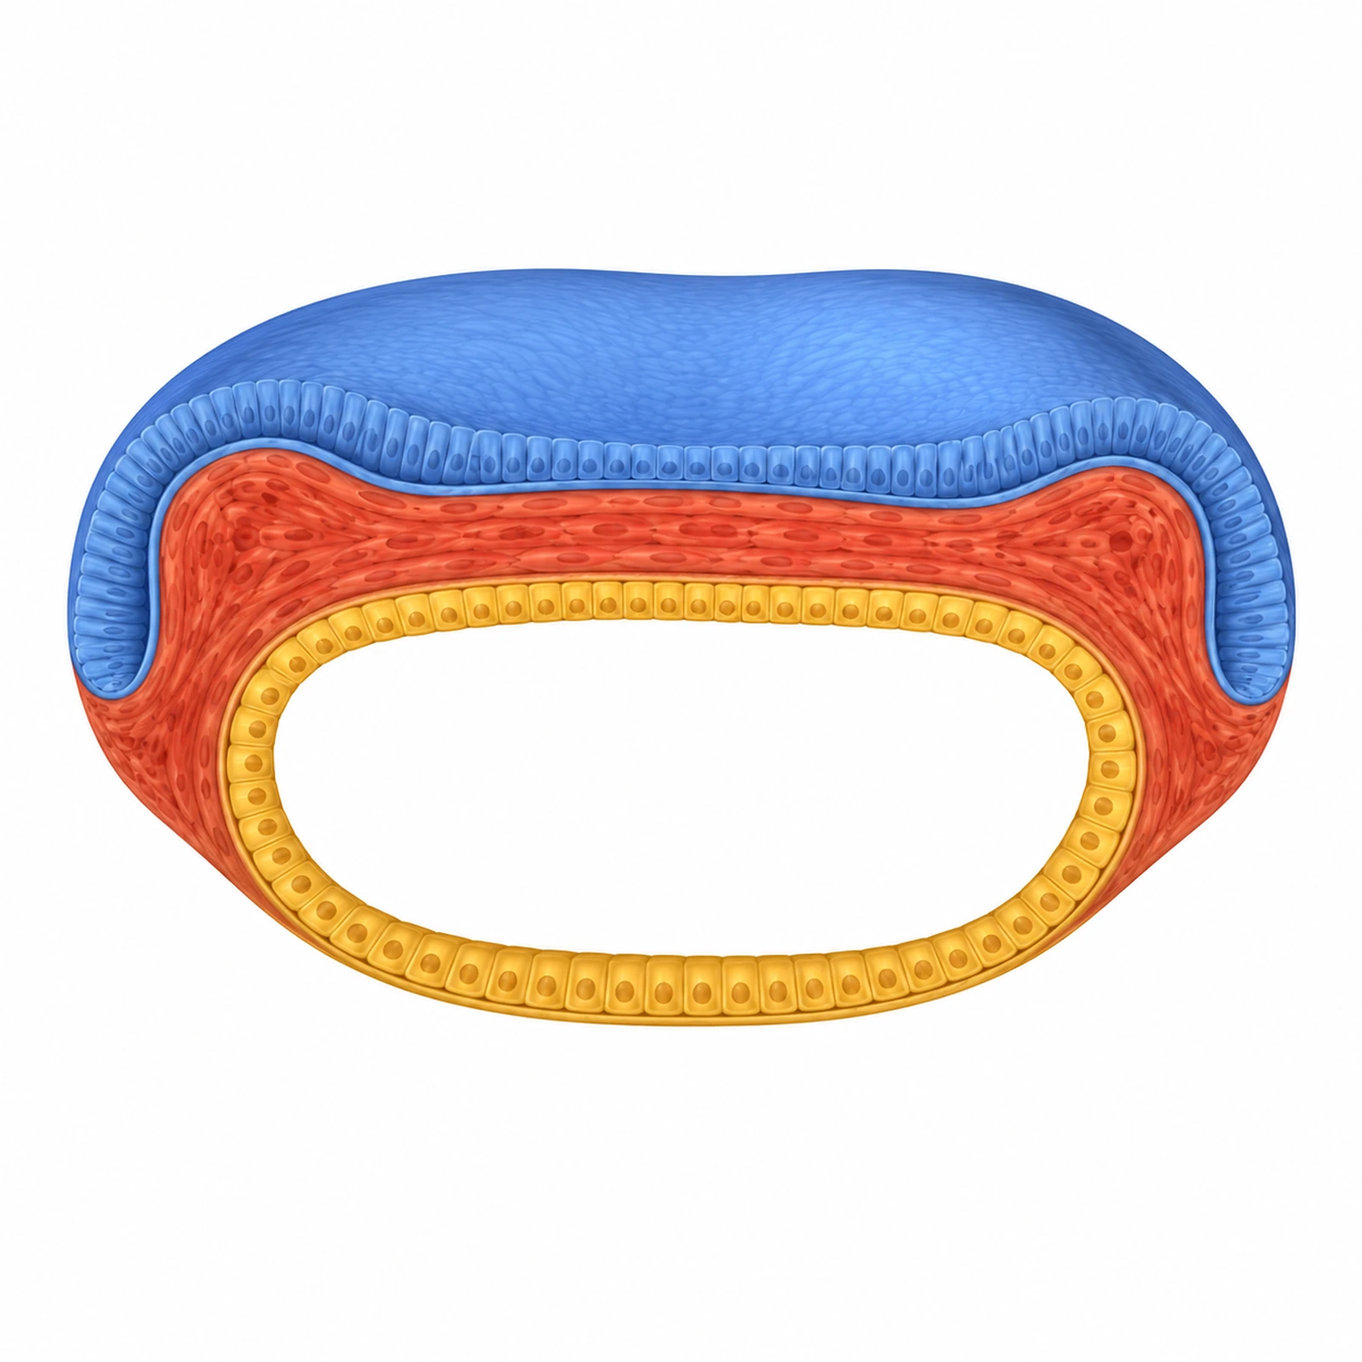
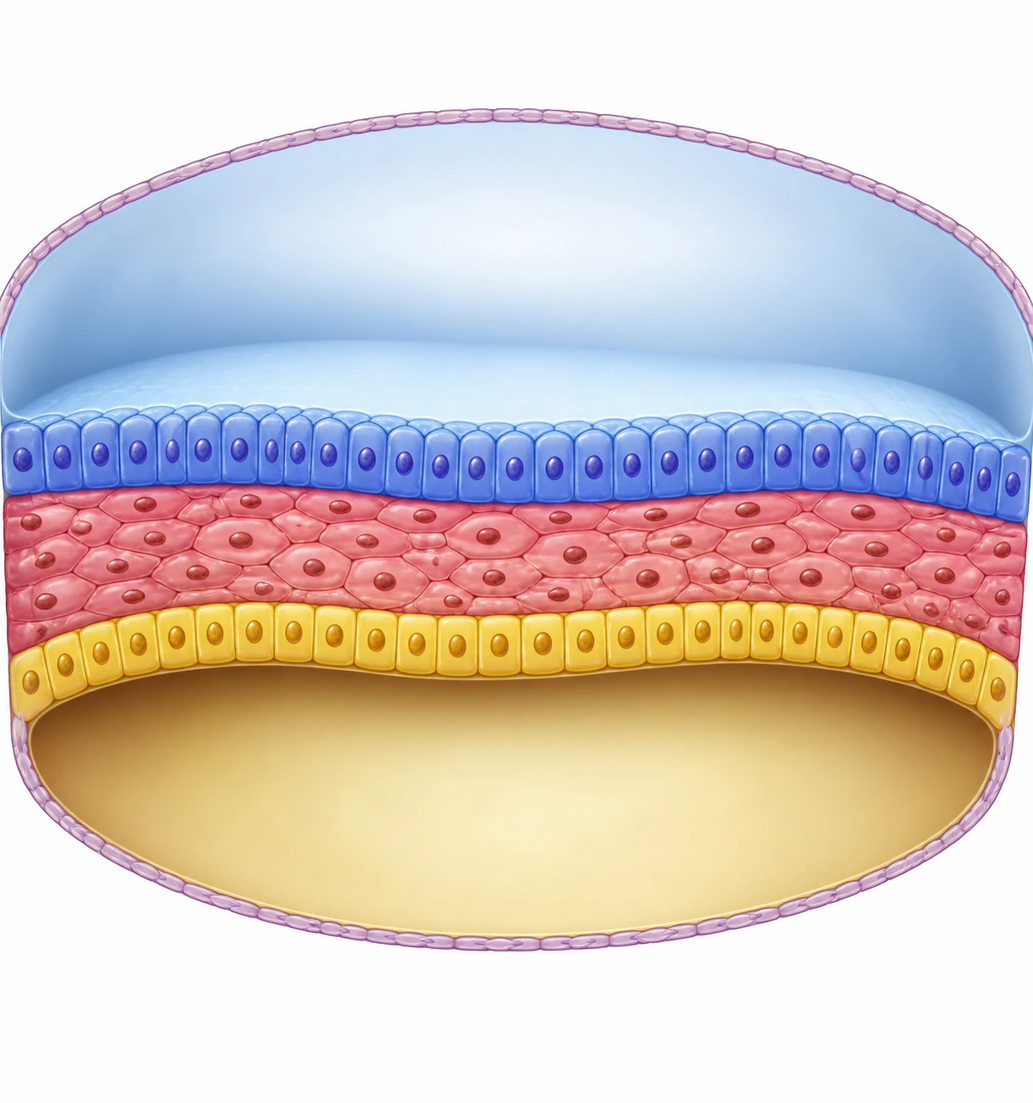
feat: batch 5 -- G04/G05/C09 image updates, Q117 moved G06 to G05
Consolidates 3 existing image_mcq masters onto user-provided custom
AI-generated images (no new masters, no type conversion):

- G05 (anatomical position): replaced the self-made SVG with a
  photorealistic full-body image. Q051 (definition question, no
  overlay) keeps its pose/answer unchanged. Q117 (medial/lateral),
  previously sharing G06 with Q063, now sits on this image with a
  newly measured marker on the forearm's medial edge -- verified
  unique by pixel sampling.
- G04 (germ layers): replaced with a cylindrical cutaway trilaminar
  disc (ectoderm/mesoderm/endoderm color-separated). Q010/Q011
  markers re-measured on the new image.
- C09 (systemic/pulmonary circulation): replaced with the user's
  final corrected diagram (4 pulmonary veins, 1 SVC, 1 IVC -- verified
  by pixel counting). Q147 (systemic: aorta/capillary bed/vena cava
  return) and Q148 (pulmonary: artery branch/capillary bed/vein)
  each get 3 newly measured path markers tracing one clear route.
- G06 keeps only Q063 (anterior/posterior); its asset is unchanged
  and still referenced, so nothing was deleted.

question/choices/answer/explanation unchanged for all 6 touched QIDs
(Q010, Q011, Q051, Q117, Q147, Q148); only image.asset/alt/overlay(s)/
marker_target/prompt_id touched. master_count stays 26 (no new/deleted
master); unique referenced assets stay 26. image_mcq count unchanged
(77, no type conversion). manifest status flipped accepted-existing ->
[…]

diff --git a/sw.js b/sw.js
@@ -8,7 +8,7 @@
 //   （＝どれか1枚の取得に失敗してもinstall全体を失敗させない。取得できなかった分は
 //   従来どおりimageCacheFirst()が実行時に個別取得を試み、それでも失敗すれば画面側の
 //   「画像準備中」表示に任せる）。
-var CACHE = 'anatomy-quiz-v2-2026-08-illustrations-v1-batch4-q231-final';
+var CACHE = 'anatomy-quiz-v2-2026-08-illustrations-v1-batch5-g1-g5-c5';
 var CORE_ASSETS = [
   './',
   './index.html',

diff --git a/docs/common_illustration_library_v1.md b/docs/common_illustration_library_v1.md
@@ -11,6 +11,8 @@
 > **更新（common illustration library batch 3）**：R03「左右肺葉・肺裂」とR04「気管支分岐」をカスタムAI生成画像による新R03「肺外観・気管支樹統合図」へ統合し、旧R05〜R07をR04〜R06へ改番した。25 master → 24 masterとなった。詳細は`docs/v2.0.1_asset_source_log.md`「common illustration library batch 3」節を参照。
 >
 > **更新（common illustration library batch 4）**：R01「喉頭外観と上下気道」からQ032・Q304・Q305・Q306を分離し、新設R08「上気道矢状断」・R09「喉頭外観・前面」へ移した（R01はQ256のみ残し、人間レビュー未完了のR2-B保留分として維持）。R02「喉頭鏡視野」はカスタムAI生成画像へ更新し、真声帯・前庭ヒダ・声門裂を分離識別できるようにした（Q307のmarkerを声帯ヒダ組織上から声門裂そのものへ再測定）。本batchはbatch 3と別worktreeで並行に進んでいたため、統合時に24 master → 26 masterとなった。詳細は`docs/v2.0.1_asset_source_log.md`「common illustration library batch 4」節を参照。
+>
+> **更新（common illustration library batch 5）**：G04「三胚葉」・G05「解剖学的正位」・C09「体循環・肺循環」をカスタムAI生成画像へ更新した（いずれも`status:"revised"`）。あわせてG06「解剖学的方向用語」のQ117（内側・外側）をG05の新画像上（前腕内側縁）へ統合し、G06はQ063（前方・後方）のみを残した。master数は26のまま変わらない（新設・削除なし、既存masterの画像更新とQ117の再配置のみ）。詳細は`docs/v2.0.1_asset_source_log.md`「common illustration library batch 5」節を参照。
 
 画像は問題単位で複製しない。複数問題が同じ `image.asset` を参照し、markerの座標とラベルは各問題の `overlay` または `overlays` に残す。前面・後面・断面・組織像、または表示倍率が違う図は別masterとした。
 
@@ -31,8 +33,8 @@
 | G02 | 上皮組織断面 | Q004 | 1 | `g02_epithelium.webp` |
 | G03 | 人体の主要断面 | Q008, Q053, Q054 | 3 | `g03_body_planes.webp` |
 | G04 | 三胚葉 | Q010, Q011 | 2 | `g04_germ_layers.webp` |
-| G05 | 解剖学的正位 | Q051 | 1 | `g05_anatomical_position.webp` |
-| G06 | 解剖学的方向用語 | Q063, Q117 | 2 | `g06_direction_terms.webp` |
+| G05 | 解剖学的正位 | Q051, Q117 | 2 | `g05_anatomical_position.webp` |
+| G06 | 解剖学的方向用語 | Q063 | 1 | `g06_direction_terms.webp` |
 | C01 | 心臓外観前面 | Q016, Q138, Q301, Q073, Q074 | 5 | `c01_heart_exterior_anterior.webp` |
 | C02 | 心臓外観後面 | Q019, Q125, Q302, Q140 | 4 | `c02_heart_exterior_posterior.webp` |
 | C03 | 心臓4腔断面 | Q017, Q064, Q129, Q230 | 4 | `c03_heart_chambers.webp` |
@@ -54,7 +56,7 @@
 | U03 | 泌尿器系全体 | Q050, Q095, Q192 | 3 | `u03_urinary_system.webp` |
 | U04 | 腎臓冠状断（腎門含む） | Q045, Q091, Q092, Q093, Q100, Q180, Q309 | 7 | `u04_kidney_cross_section.webp` |
 
-77問すべてがmasterへ割り当てられている。うち71問は複数Qで使うmasterに属し、Q002、Q004、Q051、Q231は教育上の縮尺・識別性を守るため単独masterとした。Q256（R01）とQ032（R08）も現時点では単独masterだが、これはR01がR2-B新設（人間レビュー未完了のため保留）を待つ暫定状態であることによるもので、恒久的な設計判断ではない。
+77問すべてがmasterへ割り当てられている。うち71問は複数Qで使うmasterに属し、Q002、Q004、Q231は教育上の縮尺・識別性を守るため単独masterとした。Q063（G06）もbatch 5でQ117がG05へ移った結果、単独masterとなった。Q256（R01）とQ032（R08）も現時点では単独masterだが、これはR01がR2-B新設（人間レビュー未完了のため保留）を待つ暫定状態であることによるもので、恒久的な設計判断ではない。
 
 ## 統合しなかった主な図
 
@@ -67,10 +69,11 @@
 - U02、U03、U04はネフロン模式図、泌尿器系全体、腎断面。観察範囲が一致しない。腎門（旧U01）だけはU04の腎臓冠状断上で無理なく一意に指せたため、batch 2でU04へ統合した。
 - R08（上気道矢状断）とR09（喉頭外観・前面）：旧R01は後面寄りの頸部局所図1枚に、鼻腔〜気管の全体像（Q032）と喉頭単体の前面観（Q304〜Q306）を無理に同居させていた。矢状断と前面外観は観察方向が異なるため、batch 4で別masterに分離した。Q256（喉頭蓋）は、まだ人間レビューが済んでいない別視点の候補（R2-B）に統合される可能性があるため、今回は旧R01画像に残し統合対象から外した。
 - R02は声帯を扱う点でR08・R09と同じ喉頭領域だが、喉頭鏡視野（上方から見た内視鏡的視野）は前面外観・矢状断のどちらとも観察方向が異なり、実在する内視鏡所見の再現という性質上も独立して扱う。
+- G05とG06：batch 5でG05の画像を全身写真的イラストへ更新した際、Q117（内側・外側）の marker を前腕内側縁として一意に配置できることを確認できたため、G06からG05へ統合した。Q063（前方・後方）はG05の画像（正面観のみ）では前後方向を示せないため、G06（正面図＋側面図）に残した。G04（三胚葉）は発生学の胚葉断面図でG05・G06とは主題が異なるため統合していない。
 
 ## 生成・出典管理
 
-v1の当初26 masterは品質評価済みの既存assetをバイト同一で採用した。batch 1でC01・C02・C03・C05をカスタムAI生成画像へ更新し（`status:"revised"`）、C08を統合廃止、C10を新設した。batch 2でU01（腎門）をU04へ統合・削除し、U02・U03・U04をカスタムAI生成画像へ更新した（`status:"revised"`）。26 master → 25 masterとなった。batch 3では呼吸器の肺葉図（旧R03）と気管支分岐図（旧R04）を新R03（肺外観・気管支樹統合図）へ統合し、25 master → 24 masterとなった。batch 4でR01からQ032・Q304〜Q306を分離し、カスタムAI生成画像によるR08・R09を新設、R02もカスタムAI生成画像へ更新した（`status:"revised"`）。batch 3・batch 4は別worktreeで並行に進み、後日rebaseで統合したため24 master → 26 masterとなった。生成待ちは0件。各masterの観察方向、縮尺、主要構造、marker target、代替画像を作る場合のprompt、出典・ライセンス欄はmanifestに収録した。
+v1の当初26 masterは品質評価済みの既存assetをバイト同一で採用した。batch 1でC01・C02・C03・C05をカスタムAI生成画像へ更新し（`status:"revised"`）、C08を統合廃止、C10を新設した。batch 2でU01（腎門）をU04へ統合・削除し、U02・U03・U04をカスタムAI生成画像へ更新した（`status:"revised"`）。26 master → 25 masterとなった。batch 3では呼吸器の肺葉図（旧R03）と気管支分岐図（旧R04）を新R03（肺外観・気管支樹統合図）へ統合し、25 master → 24 masterとなった。batch 4でR01からQ032・Q304〜Q306を分離し、カスタムAI生成画像によるR08・R09を新設、R02もカスタムAI生成画像へ更新した（`status:"revised"`）。batch 3・batch 4は別worktreeで並行に進み、後日rebaseで統合したため24 master → 26 masterとなった。batch 5でG04・G05・C09をカスタムAI生成画像へ更新し（`status:"revised"`）、G06のQ117をG05へ再配置した。master新設・削除は無く26 masterのまま。生成待ちは0件。各masterの観察方向、縮尺、主要構造、marker target、代替画像を作る場合のprompt、出典・ライセンス欄はmanifestに収録した。
 
 出典URL、加工方法、採否理由は `docs/v2.0.1_asset_source_log.md` と `docs/v2.0.1_image_quality_classification.md` を参照する。出典欄が「詳細は出典ログ参照」のassetは、公開前にクレジット表示との一致を人が再確認する。
 

diff --git a/docs/common_illustration_library_v1_implementation_log.md b/docs/common_illustration_library_v1_implementation_log.md
@@ -283,3 +283,77 @@ commit hashは実装コミットのGit履歴を正本とする。
 | `tools/queue_distribution_test.js` | PASSED |
 
 （`?review=assets`・`?review=images`・responsive QAの結果は本ログの直後に追記する。）
+
+---
+
+## common illustration library batch 5（総論G04/G05・循環器C09 -- 既存3 masterの画像更新、G06からG05へQ117再配置）
+
+### 基準
+
+- 作業開始HEAD：`68171a4b4dab57ddbe3a882091aa1a0d1c82cf97`（branch `fix/v2.0.1-review-and-update`）
+- 対象：G04（三胚葉）・G05（解剖学的正位）・C09（体循環・肺循環）の3 masterをユーザー提供カスタムAI生成画像へ更新。あわせてG06（解剖学的方向用語）のQ117（内側・外側）を、G05の新画像上（前腕内側縁）へ一意に配置できることを確認したうえで統合した
+- text_mcq→image_mcq変換は実施していない。問題文・choices・answer・explanationは全QIDで無変更
+- master新設・削除は無し（26 master → 26 master）。既存3 masterの画像更新とQ117の再配置のみ
+
+### 実装内容
+
+- **G05（解剖学的正位）**：旧g05はプロジェクト自作SVGで、直立正面像のみを示しQ051（正位の定義選択、overlayなし）専用だった。新画像（`.codex/generated_images/01a0331c-d0a0-7791-a884-fdf27de3cc82/exec-2bc0434f-2f33-415b-b191-772303bc8456.png`、887×1774）は写実的な全身正面像で、Q051の構図（直立・正面視・手掌前方）を保ちつつ、前腕内側縁を内側・外側の基準点として実ピクセルサンプリングで一意に指せることを確認した。これによりQ117（旧G06「方向用語」でQ063と同一画像を共有）をG05へ統合し、markerを新規測定した。Q051は元々overlayなしの定義選択問題のため、画像更新後もoverlay追加は行っていない（`tools/dataset_validate.js`のQ051例外はそのまま有効）。
+- **G04（三胚葉）**：旧g04は平面的な胚盤断面模式図。新画像（`exec-92659ef8-a458-4f81-bdf3-979b0f1be49e.png`、1214×1296）は外胚葉（青・円柱上皮）／中胚葉（ピンク・疎な間葉）／内胚葉（黄・立方上皮）を色で明確に分離した円柱状カットモデルで、羊膜腔（上方）・卵黄嚢腔（下方）も含む。Q010（中胚葉）・Q011（外胚葉）のmarkerを新画像上で再測定した。marker_targetの文言（「中胚葉（中層）」「最外層（外胚葉）」）は層の相対位置が変わらないため無変更。
+- **C09（体循環・肺循環）**：旧c09はプロジェクト自作SVGで、肺静脈・上大静脈・下大静脈の本数が不正確だった。ユーザーが複数回の修正を経て最終確認した画像（`exec-52927d44-a91c-4cb9-8b93-05a12b160b15.png`、1024×1536）は、肺静脈4本（左右各2本）・上大静脈1本・下大静脈1本に修正済み。Q147（体循環：①a大動脈／①b全身毛細血管／①c大静脈復路）・Q148（肺循環：②a肺動脈枝／②b肺毛細血管／②c肺静脈）の各3点markerを新画像上で再測定し、いずれも右肺側の一続きの経路（動脈→毛細血管→静脈）を辿るよう統一した。
+- 対象6 QID（Q010, Q011, Q051, Q117, Q147, Q148）の`image.asset`・`image.overlay`/`overlays`・`marker_target`（Q117のみ）・`image.alt`（G04/G05/C09の3 asset単位で統一文言に更新）・`prompt_id`（Q117のみ、G06のIMG-022からG05のIMG-021へ変更し、同一assetを共有するQ051と一致させた）を更新した。
+- G06の`questions`をQ063のみへ縮小（Q117を除去）。G06自体の画像・structures・marker_targetsは変更していない（Q063のmarker位置も不変。画像には引き続き内側・外側の矢印も描かれているが、参照する問題が無くなっただけで画像は削除していない）。
+
+### 全marker座標（新画像に対する実ピクセルサンプリングで再測定。既存座標の流用は無し）
+
+**G05**（`g05_anatomical_position.webp`、800×1600、長辺1600pxへリサイズ済み）
+
+| marker | QID | marker_target |
+|---|---|---|
+| （overlayなし） | Q051 | 全身姿勢（正位の定義選択問題） |
+| ①(0.72,0.365) | Q117 | 内側（前腕の内側縁、正中線に近い側） |
+
+**G04**（`g04_germ_layers.webp`、1214×1296）
+
+| marker | QID | marker_target |
+|---|---|---|
+| ①(0.5,0.43) | Q011 | 最外層（外胚葉、青の円柱上皮層） |
+| ②(0.5,0.505) | Q010 | 中胚葉（中層、ピンクの疎な間葉層） |
+
+**C09**（`c09_circulation_circuit.webp`、1024×1536）
+
+| marker | QID | marker_target |
+|---|---|---|
+| ①a(0.638,0.73) | Q147 | 大動脈（左心室からの下行路） |
+| ①b(0.5,0.87) | Q147 | 全身毛細血管床 |
+| ①c(0.29,0.7) | Q147 | 大静脈復路（右心房へ戻る経路） |
+| ②a(0.765,0.15) | Q148 | 肺動脈枝（右心室から肺への経路） |
+| ②b(0.874,0.148) | Q148 | 肺毛細血管床（右肺内） |
+| ②c(0.799,0.217) | Q148 | 肺静脈（肺から左心房へ戻る経路） |
+
+### 画像処理
+
+3枚ともユーザー提供PNG（`.codex/generated_images/01a0331c-d0a0-7791-a884-fdf27de3cc82/`配下、RGB、アルファチャンネル無し）。G04（1214×1296）・C09（1024×1536）は長辺1600px以下のためリサイズなし。G05（887×1774）のみ長辺1600pxへLANCZOSリサイズ（800×1600）。3枚ともWebP変換（quality=92, method=6）。トリミング等の追加改変は無し。
+
+### dataset側の変更
+
+- unique asset数：26のまま（新規追加・削除は0件。G04/G05/C09は既存assetのバイト更新のみ）。
+- image_mcq数：77のまま（type変換は無し）。総問題数311は無変更。
+- `assets/illustrations/v1/manifest.json`：G04・G05・C09の`status`を`accepted-existing`から`revised`へ変更し、`structures`・`generation`・`provenance`を新画像の内容に合わせて更新（`source_asset`は旧ファイルパスのまま維持、`revised`のためsha256一致チェックは対象外）。G05の`questions`にQ117を追加、G06の`questions`からQ117を除去。`status_counts`（accepted-existing 16→13、revised 10→13）を実態に合わせて更新した。`master_count`は26のまま。
+- `tools/dataset_validate.js`・`tools/queue_distribution_test.js`：変更なし（total/category/difficulty/type/unique assets期待値がいずれも今回の変更で変わらないため）。
+- `sw.js`：precacheリストは変更なし（ファイル名は既存のまま）。cache名を`anatomy-quiz-v2-2026-08-illustrations-v1-batch4-q231-final`から`anatomy-quiz-v2-2026-08-illustrations-v1-batch5-g1-g5-c5`へ更新した。
+- `README.md`：master数（26）に変更が無いため無変更。
+
+### 新規Creditsエントリ
+
+不要。G04・G05・C09はいずれも元々ユーザー提供カスタム画像またはプロジェクト自作SVGで、外部CC表示の対象ではなかった。`app.js`のIMAGE_CREDITSにG04/G05/G06/C09関連の記載は元々無く、変更していない。
+
+### 検証結果
+
+| 検証 | 結果 |
+|---|---|
+| `tools/dataset_validate.js` | errors 0、warnings 0（311問／image_mcq 77／text_mcq 234／unique assets 26） |
+| `tools/common_illustration_library_validate.js` | masters 26、77/77問割当、errors 0 |
+| `tools/queue_distribution_test.js` | PASSED |
+| `?review=assets` | G04(2問)・G05(2問)・G06(1問)・C09(2問)で使用QID一覧とmarker表示を確認 |
+| `?review=images` | 対象6 QID（Q010, Q011, Q051, Q117, Q147, Q148）全件で問題文・選択肢・正答・markerを確認 |
+| responsive QA | Desktop(1280×800)／iPad(768×1024)／Phone(375×812)：`document.documentElement.scrollWidth`が`window.innerWidth`を超えないことを確認（横スクロールなし）。Phone幅でのzoom modalも画像が viewport 内に収まることを確認 |

diff --git a/docs/v2.0.1_asset_source_log.md b/docs/v2.0.1_asset_source_log.md
@@ -407,3 +407,41 @@ Phone(375×812)プリセットでの`?review=images`確認中、`document.docume
 ### R2-Bについて（今回のスコープ外）
 
 Q256（喉頭蓋）を含む別視点master（R2-B）は、人間レビューが未完了のため今回は一切変更していない。R01は暫定的にQ256単独masterのまま残し、R2-Bの検討が完了した時点で改めて統合・分離を判断する。
+
+---
+
+## common illustration library batch 5（総論G04/G05・循環器C09）
+
+対象：G04「三胚葉」・G05「解剖学的正位」・C09「体循環・肺循環」の3masterをユーザー提供カスタムAI生成画像へ更新し、G06「解剖学的方向用語」のQ117をG05へ再配置した。実装の詳細（marker座標・検証結果）は`docs/common_illustration_library_v1_implementation_log.md`「common illustration library batch 5」節を参照。本節は採用画像の出典と採否判定のみを記録する。
+
+### G05（解剖学的正位）
+
+- 採用asset：`assets/illustrations/v1/assets/g05_anatomical_position.webp`
+- 原本：`C:\Users\中野　元\.codex\generated_images\01a0331c-d0a0-7791-a884-fdf27de3cc82\exec-2bc0434f-2f33-415b-b191-772303bc8456.png`（887×1774、RGB）
+- 採用判定：直立・正面視・手掌前方の解剖学的正位を写実的に示す。Q051（正位の定義選択、overlayなし）に加え、前腕内側縁を内側・外側の基準点として実ピクセルサンプリングで一意に指せることを確認したため、G06で単独markerを共有していたQ117（内側・外側）をここへ統合した。頭側・尾側／近位・遠位のmarker候補としても構図上は利用可能だが、該当する既存image_mcqが無い（Q009・Q216はtext_mcqのまま）ため、今回はQ051・Q117のみを移行した。
+- 画像処理：887×1774 PNG（RGB、アルファ無し）を長辺1600pxへLANCZOSリサイズ（800×1600）後、WebP変換（quality=92, method=6）。トリミングなし。
+- 外部出典・ライセンス：なし。プロジェクト保有のカスタム生成assetとして管理する。Credits追加は不要。
+
+### G04（三胚葉）
+
+- 採用asset：`assets/illustrations/v1/assets/g04_germ_layers.webp`
+- 原本：`C:\Users\中野　元\.codex\generated_images\01a0331c-d0a0-7791-a884-fdf27de3cc82\exec-92659ef8-a458-4f81-bdf3-979b0f1be49e.png`（1214×1296、RGB）
+- 採用判定：外胚葉（青・円柱上皮）／中胚葉（ピンク・疎な間葉）／内胚葉（黄・立方上皮）が標準的な層状模式図として色で明確に分離された円柱状カットモデル。実ピクセルサンプリングで3層とも一意に識別できることを確認した（Q010=中胚葉、Q011=外胚葉のmarkerとして採用）。
+- 画像処理：1214×1296 PNG（RGB、アルファ無し）をそのままWebP変換（quality=92, method=6）。長辺1296pxのためリサイズなし。トリミングなし。
+- 外部出典・ライセンス：なし。プロジェクト保有のカスタム生成assetとして管理する。Credits追加は不要。
+
+### C09（体循環・肺循環）
+
+- 採用asset：`assets/illustrations/v1/assets/c09_circulation_circuit.webp`
+- 原本：`C:\Users\中野　元\.codex\generated_images\01a0331c-d0a0-7791-a884-fdf27de3cc82\exec-52927d44-a91c-4cb9-8b93-05a12b160b15.png`（1024×1536、RGB）。ユーザーの指示により、複数回の修正を経た最終版（本ファイルのみ）を採用した。
+- 採用判定：肺循環（右心室→肺動脈→肺毛細血管→肺静脈→左心房）と体循環（左心室→大動脈→全身毛細血管→大静脈→右心房）が心臓を中心とした二重ループとして矢印付きで描かれ、経路が一意に判別できることを確認した。肺静脈4本（左右各2本）・上大静脈1本・下大静脈1本を実ピクセルサンプリングで数えて確認した（修正済みであることをユーザー指示どおり確認）。
+- 画像処理：1024×1536 PNG（RGB、アルファ無し）をそのままWebP変換（quality=92, method=6）。長辺1536pxのためリサイズなし。トリミングなし。
+- 外部出典・ライセンス：なし。プロジェクト保有のカスタム生成assetとして管理する。Credits追加は不要。
+
+### 検証結果
+
+| 検証 | 結果 |
+|---|---|
+| `tools/dataset_validate.js` | errors 0、warnings 0（311問／image_mcq 77／text_mcq 234／unique assets 26） |
+| `tools/common_illustration_library_validate.js` | masters 26、77/77問割当、errors 0 |
+| `tools/queue_distribution_test.js` | PASSED |
